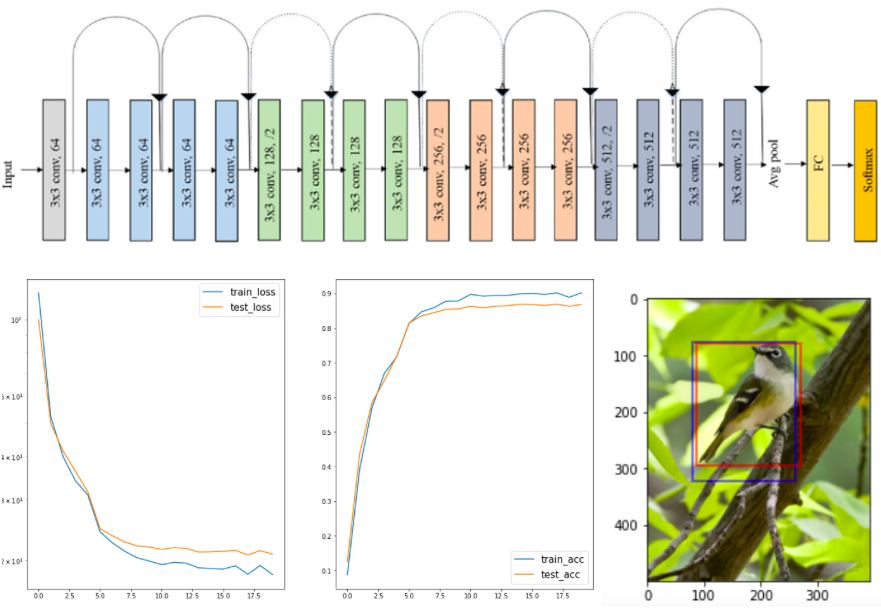
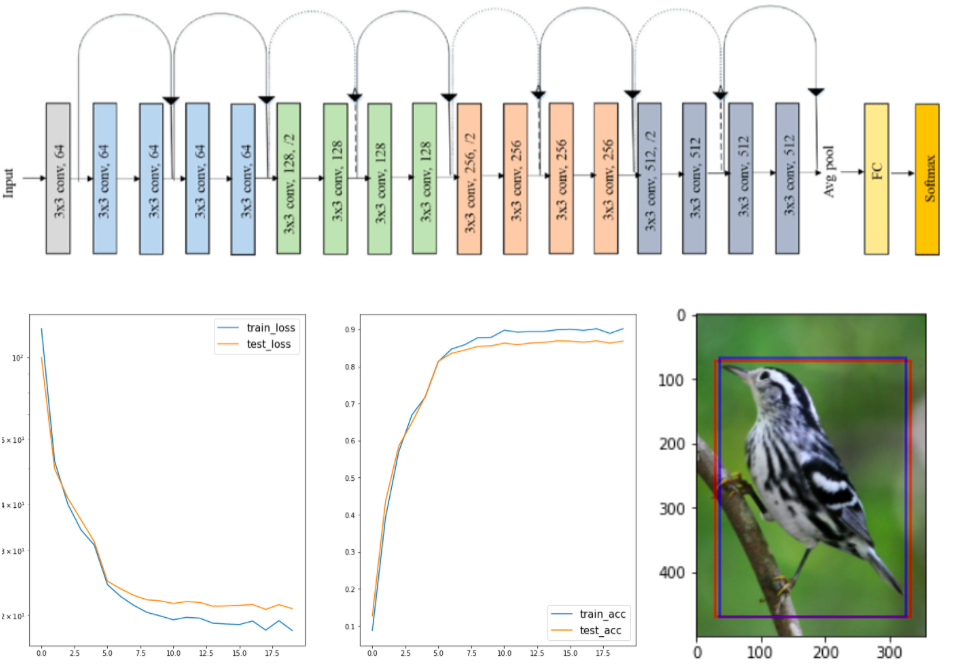
update layout.html

diff --git a/_layouts/default.html b/_layouts/default.html
@@ -10,26 +10,17 @@
     <!--[if lt IE 9]>
     <script src="https://cdnjs.cloudflare.com/ajax/libs/html5shiv/3.7.3/html5shiv.min.js"></script>
     <![endif]-->
-    {% include head-custom.html %}
   </head>
   <body>
     <div class="wrapper">
       <header>
         <h1><a href="{{ "/" | absolute_url }}">{{ site.title | default: site.github.repository_name }}</a></h1>
-
+        
         {% if site.logo %}
           <img src="{{site.logo | relative_url}}" alt="Logo" />
         {% endif %}
 
         <p>{{ site.description | default: site.github.project_tagline }}</p>
-
-        {% if site.github.is_project_page %}
-        <p class="view"><a href="{{ site.github.repository_url }}">View the Project on GitHub <small>{{ site.github.repository_nwo }}</small></a></p>
-        {% endif %}
-
-        {% if site.github.is_user_page %}
-        <p class="view"><a href="{{ site.github.owner_url }}">View My GitHub Profile</a></p>
-        {% endif %}
 
         {% if site.show_downloads %}
         <ul class="downloads">
@@ -44,13 +35,17 @@
       {{ content }}
 
       </section>
-      <footer>
-        {% if site.github.is_project_page %}
-        <p>This project is maintained by <a href="{{ site.github.owner_url }}">{{ site.github.owner_name }}</a></p>
-        {% endif %}
-        <p><small>Hosted on GitHub Pages &mdash; Theme by <a href="https://github.com/orderedlist">orderedlist</a></small></p>
-      </footer>
     </div>
     <script src="{{ "/assets/js/scale.fix.js" | relative_url }}"></script>
+    {% if site.google_analytics %}
+    <script>
+      (function(i,s,o,g,r,a,m){i['GoogleAnalyticsObject']=r;i[r]=i[r]||function(){
+      (i[r].q=i[r].q||[]).push(arguments)},i[r].l=1*new Date();a=s.createElement(o),
+      m=s.getElementsByTagName(o)[0];a.async=1;a.src=g;m.parentNode.insertBefore(a,m)
+      })(window,document,'script','https://www.google-analytics.com/analytics.js','ga');
+      ga('create', '{{ site.google_analytics }}', 'auto');
+      ga('send', 'pageview');
+    </script>
+    {% endif %}
   </body>
 </html>

diff --git a/index.md b/index.md
@@ -84,7 +84,7 @@ This project involves predicting ratings (from 1-5) of users on given products g
 ![](https://img.shields.io/badge/-Numpy-blue)
 ![](https://img.shields.io/badge/-DeepLearning-lightgrey)
 
-Capstone project for predicting the popularity scores of pets based on their pictures on the online pet adoption website Petfinder.my. Although certain breeds may be more popular overall, it is hypothesised that features such as whether pets' faces are shown, or whether humans are present in the picture may influence how popular that pet profile is. This information can guide adoption agencies into taking profile pictures that are more eye-catching so that stray animals can find caring families as soon as possible.
+Capstone project for predicting the popularity scores of pets based on their pictures on the online pet adoption website Petfinder.my. Although certain breeds may be more popular overall, it is hypothesised that features such as whether pets' faces are shown, or whether humans are present in the picture may influence how popular that pet profile is. This information can guide adoption agencies into taking profile pictures that are more eye-catching so that stray animals can find caring families as soon as possible. The pawpularity score of an image ranges from 0-100, and the evaluation metric used is Root Mean Squared Error (RMSE). Ultimately, the final model used both metadata and image features, and when combined with a customised weighted loss function, I managed to achieve an RMSE of 18.044 on the Kaggle leaderboard, which is not too far from the top score of 17.65.
 
 <img src="images/4995-2-1.png"/>
 
@@ -96,7 +96,7 @@ Capstone project for predicting the popularity scores of pets based on their pic
 ![](https://img.shields.io/badge/-C%23-purple)
 ![](https://img.shields.io/badge/-SQL-green)
 
-This repo contains source code for building a simple website in C# that interfaces with Oracle SQL database to display results for popularly used queries.
+This repo contains source code for building a simple website in C# that interfaces with Oracle SQL database to display results for popularly used queries. The web application also supports addition and deletion of records to said database.
 
 <img src="images/sqlwebsite.png"/>
 
@@ -115,7 +115,7 @@ This project involved implementing DCGAN and CycleGAN architectures from scratch
 <center><img src="images/GANs_1.png"/></center>
 
 ---
-### Turbulence detection in images
+### Turbulence detection in multispectral images
 
 [![View on GitHub](https://github.com/jchow-ust/jchow-ust.github.io/tree/main/projects/COMP4211%20Machine%20Learning/Final_Project/group6-final.ipynb)
 
@@ -124,7 +124,7 @@ This project involved implementing DCGAN and CycleGAN architectures from scratch
 ![](https://img.shields.io/badge/-Numpy-blue)
 ![](https://img.shields.io/badge/-DeepLearning-lightgrey)
 
-This project involved classifying information received from different bands as different types of turbulence (moderate, severe, or none). F1 score was used as the evaluation metric. TODO expand
+This project involved classifying multispectral images of particles, where each spectra (or channel) captured specific information (e.g. UV light) into different types of turbulence (moderate, severe, or none). F1 score was used as the evaluation metric. The dataset was imbalanced as only a small number of samples showed severe turbulence. However, through experimentation with data augmentation, different loss metrics, and different CNN model architectures, we observe that the focal loss paired with an ensemble of different CNN architectures best improved performance and achieved an average 70% F1 score on the validation set across all three classes.
 
 <img src="images/4211.png"/>
 
@@ -138,7 +138,7 @@ This project involved classifying information received from different bands as d
 ![](https://img.shields.io/badge/-Numpy-blue)
 ![](https://img.shields.io/badge/-DeepLearning-lightgrey)
 
-This project involved bounding box detection of images from the Caltech birds dataset. IoU (intersection over union) (of predicted vs actual bounding boxes) was used as the evaluation metric. TODO expand
+This project involved object detection by finding the bounding box of birds in images from the Caltech birds dataset. IoU (intersection over union) (of predicted vs actual bounding boxes) was used as the evaluation metric. After employing hyperparameter tuning and cross validation, the tuned ResNet model achieved an average test set IoU of 0.85 and was the highest performing model in our class. The below figure shows the performance of our final model on one such image, where the ground truth bounding box is highlighted in red and the final model's predicted bounding box is highlighted in blue.
 
 <img src="images/caltechbirds.png"/>
 
@@ -230,7 +230,7 @@ This repository contains completed homework assignments for course "COMP4211: Ma
 ![](https://img.shields.io/badge/-Java-orange)
 ![](https://img.shields.io/badge/-JavaFX-orange)
 
-This repo contains source code for a GUI-based resource management game developed using JavaFX for the course "COMP3021: Java Programming". Rules for the game are detailed on pages 2 and 3 of the assignment instructions found [here](https://github.com/jchow-ust/jchow-ust.github.io/tree/main/projects/CovidGameGUI/COMP3021-PA1.pdf)
+This repo contains source code for a GUI-based resource management game developed using JavaFX for the course "COMP3021: Java Programming". Rules for the game are detailed on pages 2 and 3 of the assignment instructions found [here.](https://github.com/jchow-ust/jchow-ust.github.io/tree/main/projects/CovidGameGUI/COMP3021-PA1.pdf)
 
 <img src="images/covid_game.png"/>
 
